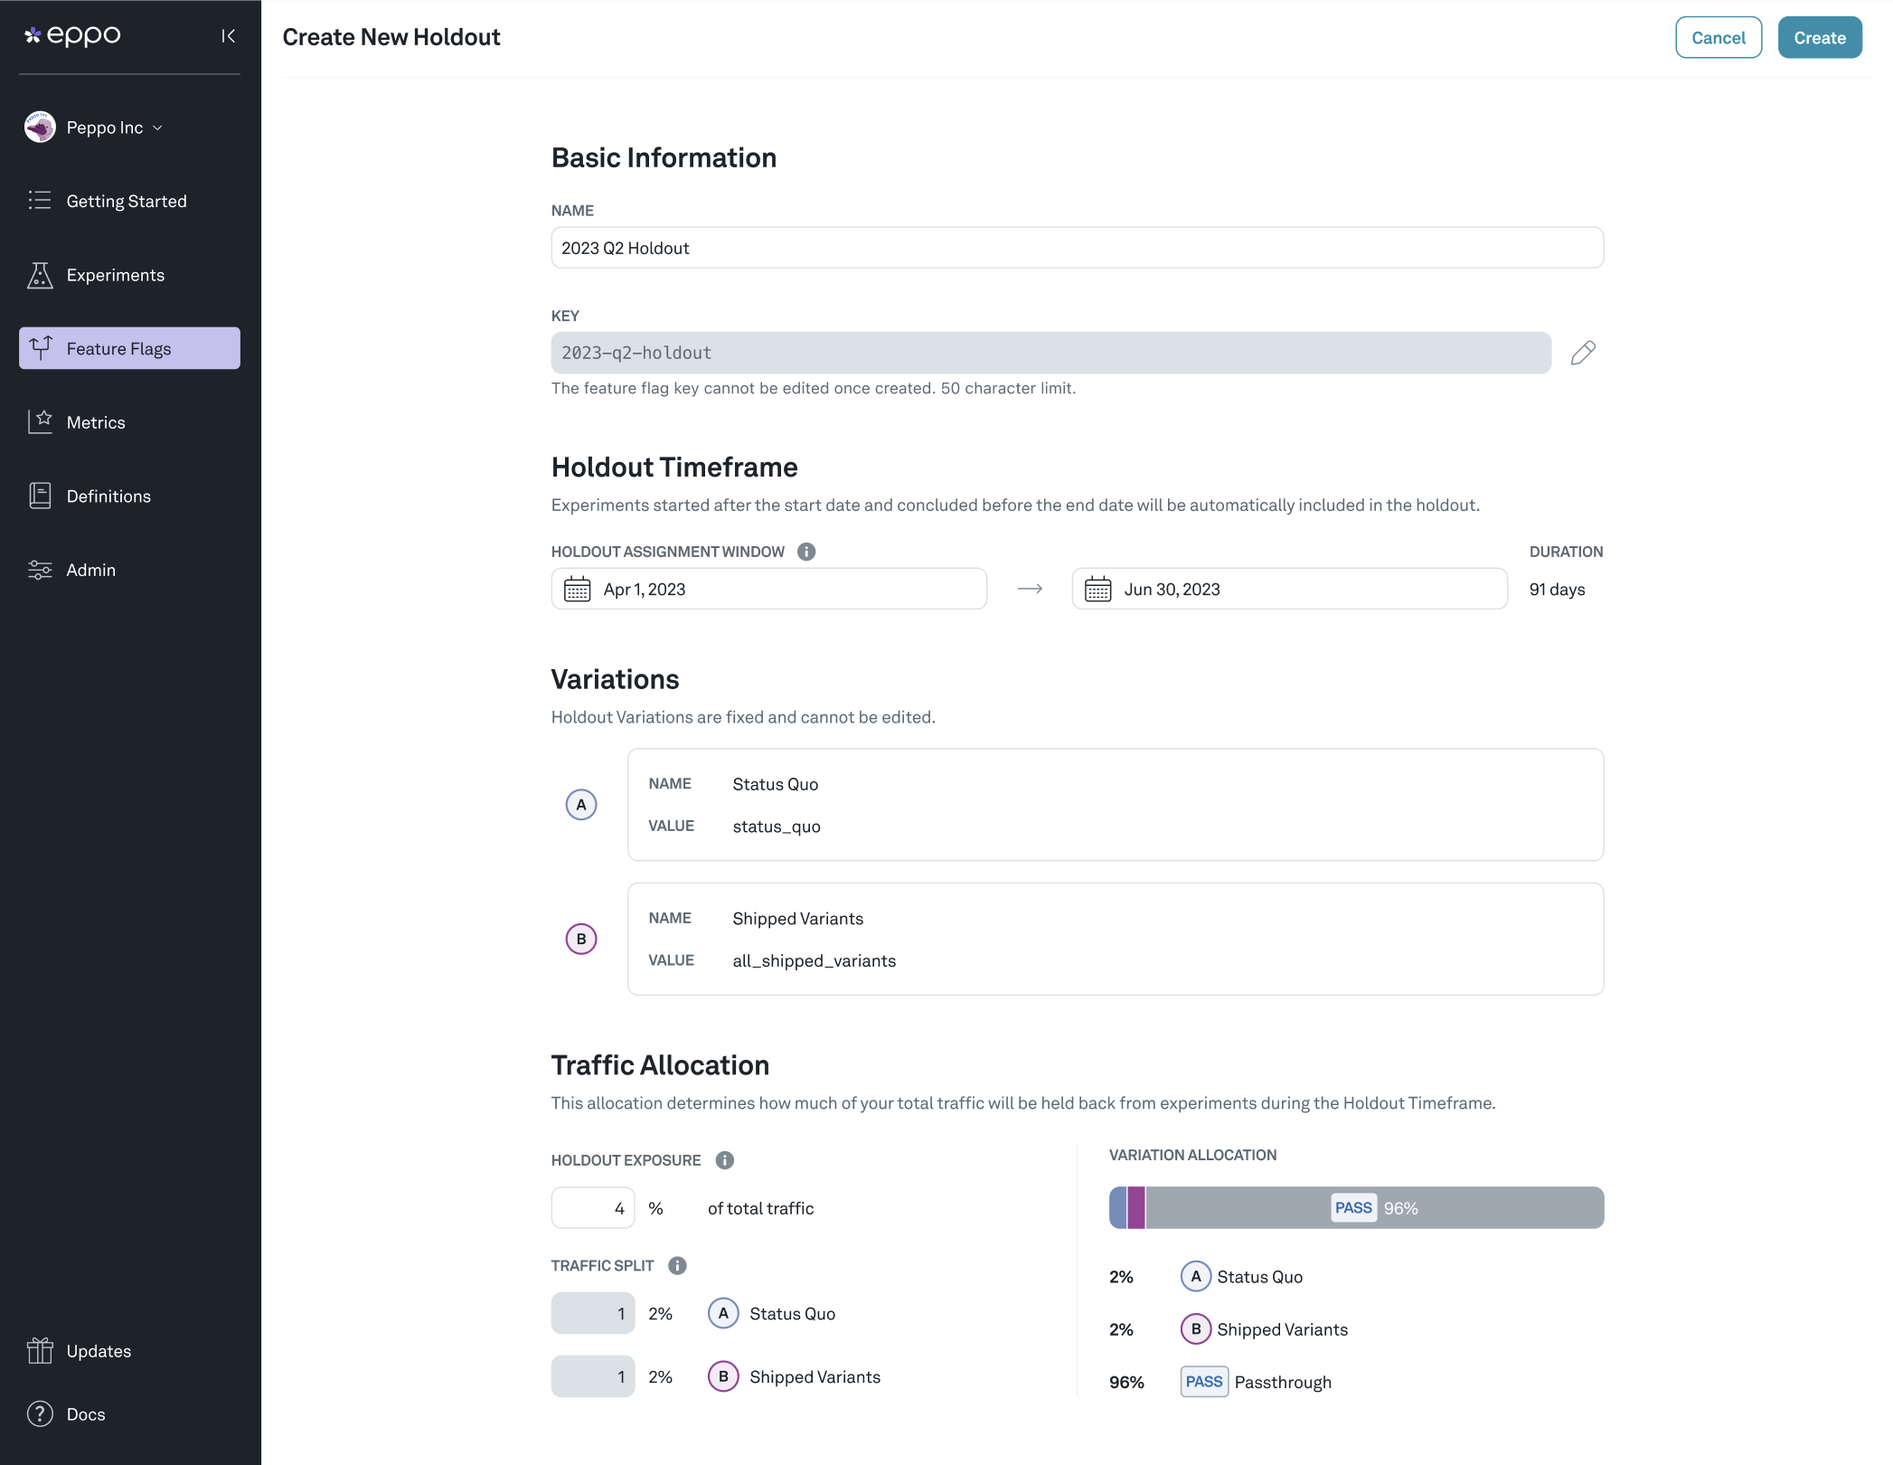
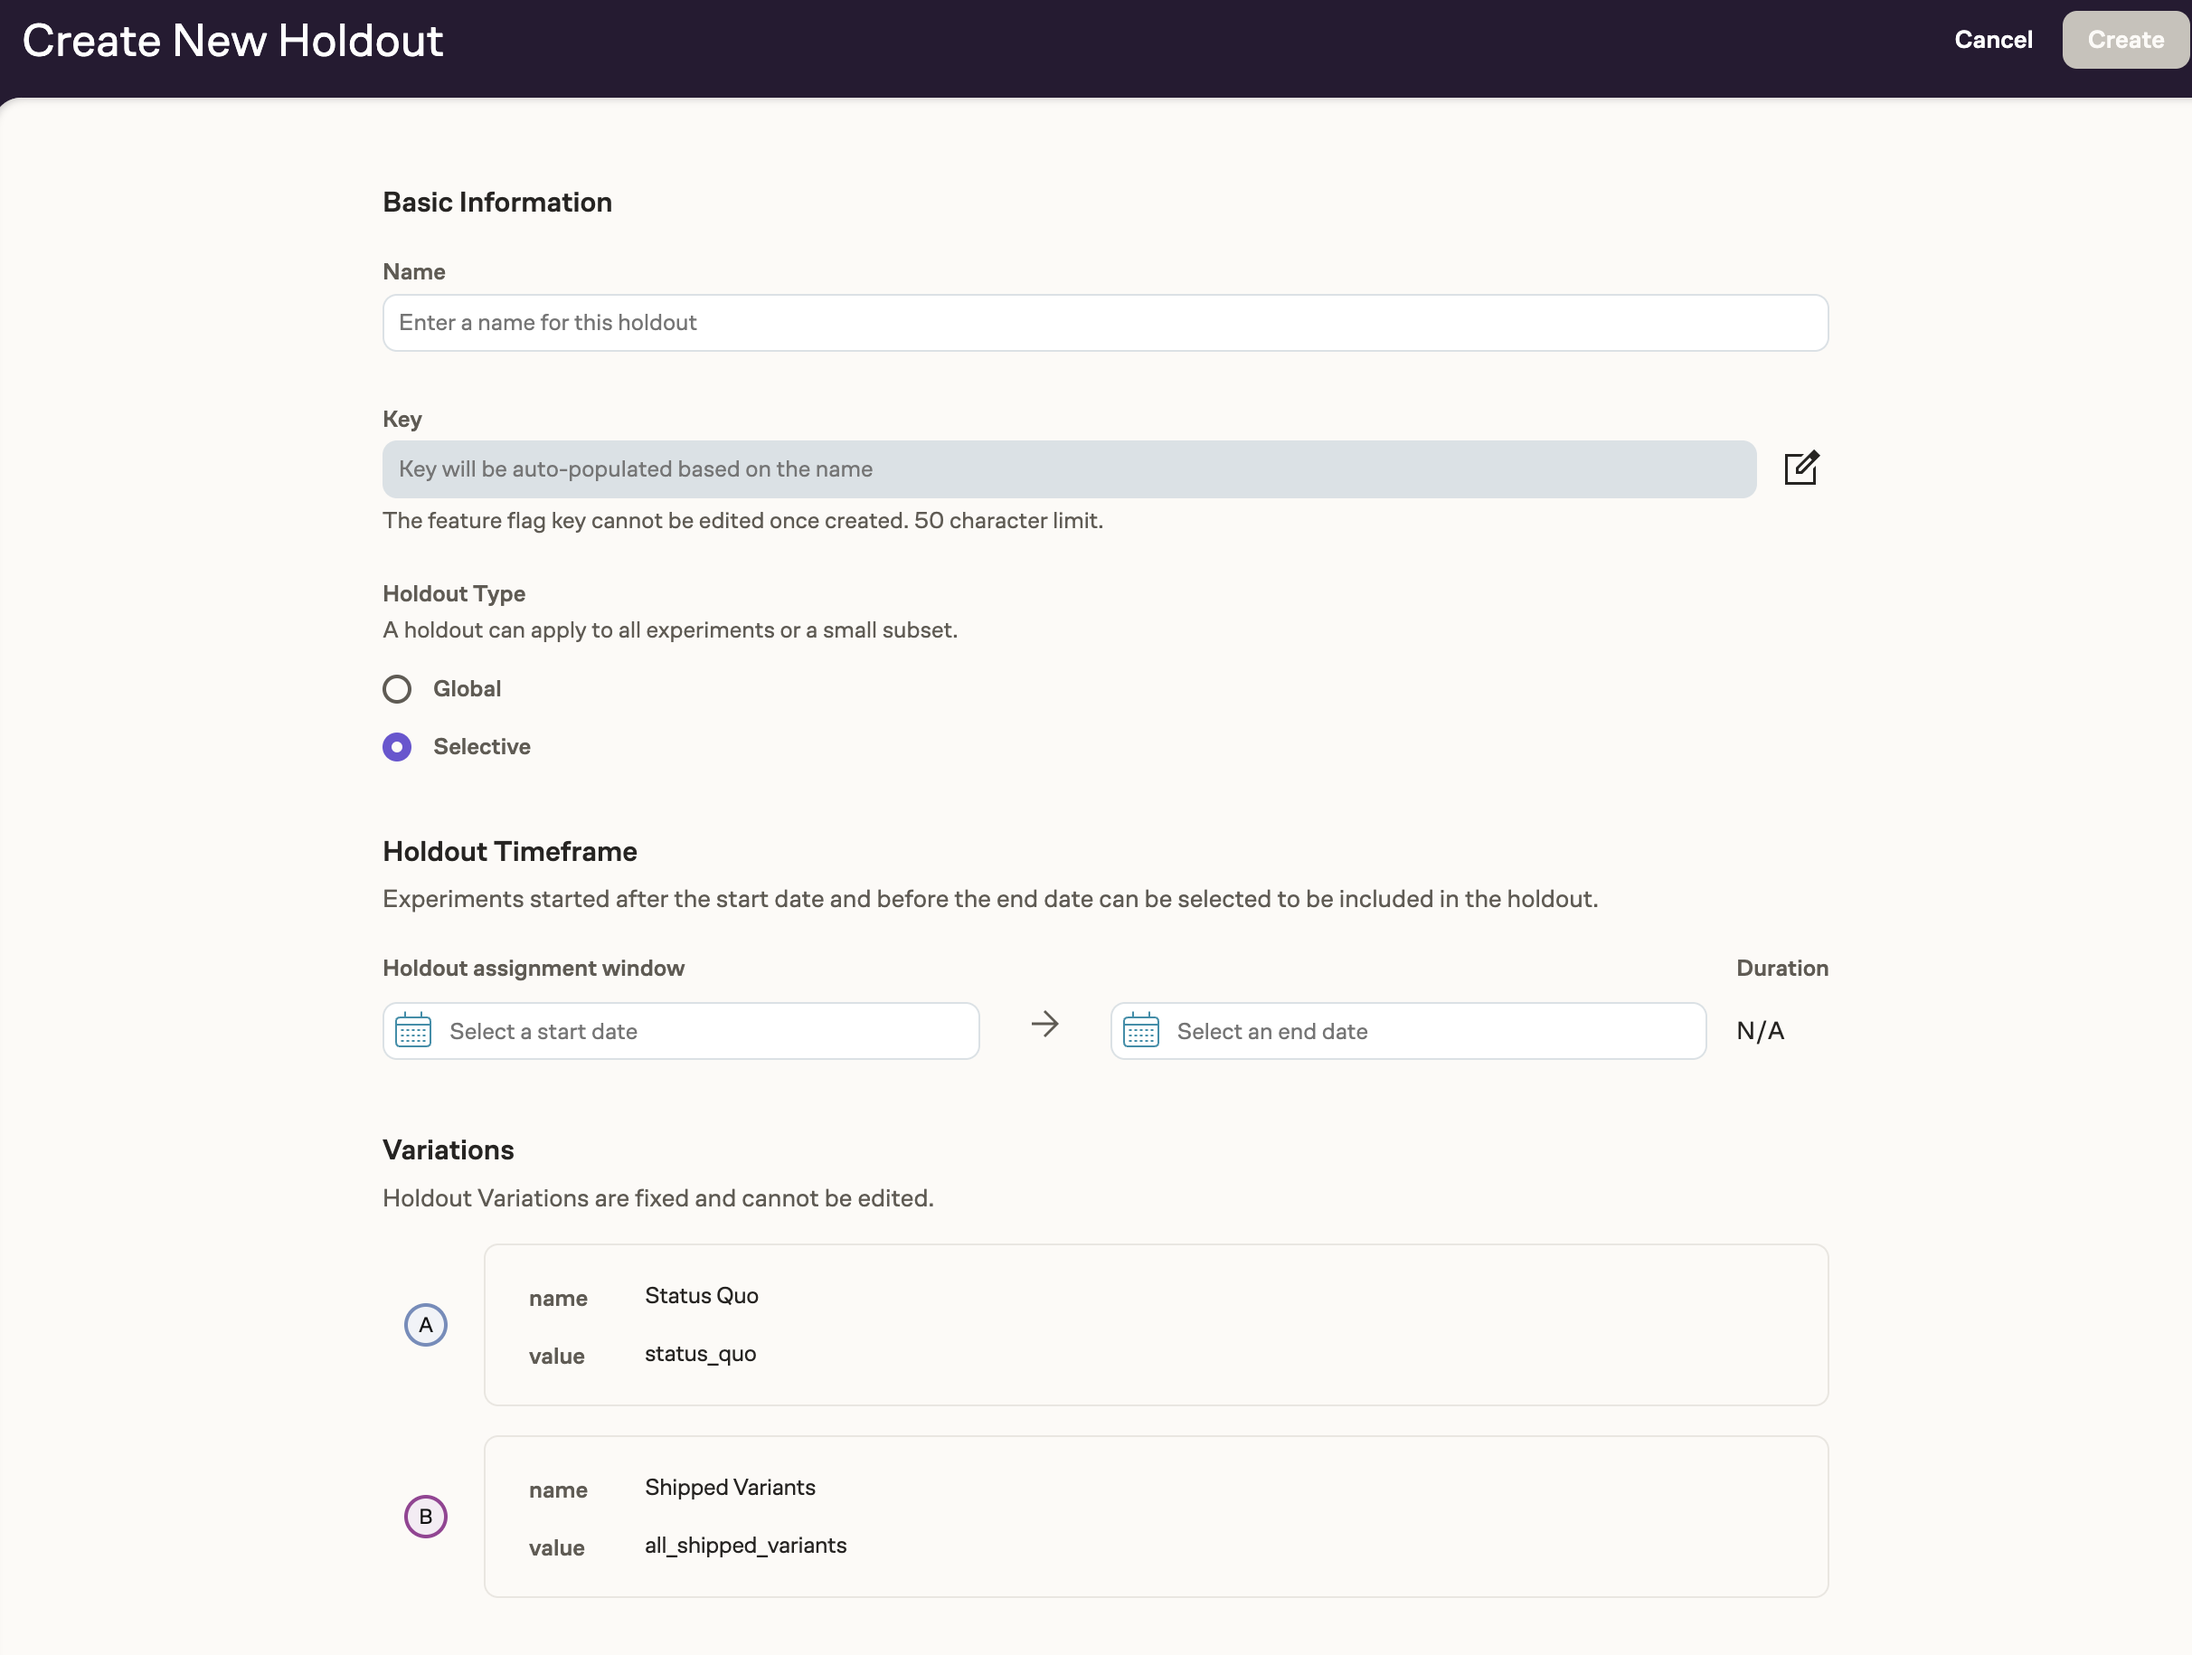
Add selective holdouts and break out sdk holdouts from analysis only (#652)
* Add selective holdouts and break out sdk holdouts from analysis only

* updated image and ordering

* Update docs/feature-flagging/concepts/holdout-config.md

* Update docs/feature-flagging/concepts/holdout-config.md

---------

diff --git a/docs/experiment-analysis/holdouts.md b/docs/experiment-analysis/holdouts.md
@@ -1,104 +1,8 @@
-# Holdouts
+# Holdout Analysis
 
-Eppo's holdouts allows you to validate the aggregate impact of Experimentation.
+Holdout Analysis allows you to understand the aggregate impact of experiments grouped in a Holdout. 
 
-This functionality offers the ability to set a holdout audience in feature flags that keeps an audience isolated from all active experiments, and measures metric changes for the holdout audience versus an audience that only experiences winning experiments.
-
-The feature can be used with Eppo's SDK for an end-to-end managed experiment or in an [**Analysis-Only mode**](#analysis-only-holdouts) where you use an external randomization library.
-
-## Using Eppo SDKs
-
-Begin by [configuring your Assignment Source](/data-management/definitions/assignment-sql) to annotate your holdout columns.
-
-### Journey of a holdout subject
-
-Define one or more holdout groups with a relevant key and the desired active date range. You can have multiple holdout 
-groups running at once (e.g., one for each team that runs experiments).
-
-The holdout is randomly split into two groups:
-* Status Quo: Subjects in this group will always see the default experience for any experiments that take place during the 
-holdout period (holdout variation key `status_quo`)
-* Winning Variants: Subjects in this group will see the winning variant of each experiment after it has been concluded and 
-rolled out (holdout variation key `all_shipped`)
-
-![Creating a Holdout](/img/experiments/holdouts/holdouts-create-object.png)
-
-### Assignment period
-
-1. Experiment assignments are added to flags
-2. When subjects are assigned to eligible experiments (more details below) with an active holdout, they may be part of 
-a holdout group. Held out subjects will have the default experience and the SDK will return the default variation.
-
-#### Experiment eligibility
-
-* New experiment assignments that start and end within the holdout window will have the holdout applied
-  * Any experiment assignment that was created before the holdout was created will not have a holdout applied, regardless 
-of dates for holdout assignment
-  * Experiment assignments that start after the holdout window will not have the holdout applied
-* Experiments assignments that start during the holdout window but do not end in that time, will continue to have the 
-holdout applied until the experiment ends
-  * To include these experiments in the holdout _analysis_, you can extend the analysis end date beyond the holdout window end 
-date
-
-#### Concluding experiments
-
-Once an experiment is complete and a winning variation is selected, all non-holdout users (variations and control) will receive it.
-Held out users will either be assigned the status quo variation or the winning variation depending on which split of the
-holdout they are a part of.
-
-### Holdout analysis period
-
-You can analyze the holdout by creating a holdout analysis.
-
-![Creating a Holdout Analysis](/img/experiments/holdouts/holdouts-create-experiment.png)
-
-* Any experiments with rolled out variations during the holdout will be included
-* Experiments that are in progress will be added to the analysis automatically when winning variations are rolled out
-* The analysis will evaluate the impact to the selected metrics on the held out subjects who received the winning
-variations compared to those who received the status quo variations
-
-### SDK behavior
-
-Application developers do not need to make any changes to the SDK usage other than ensuring holdout information passed
-to the assignment logger is properly sent to the warehouse.
-
-![Data Flow](/img/experiments/holdouts/holdouts-data-flow.png)
-
-### Changes to assignment logging
-
-Subjects who are in hold out groups will always be assigned the status quo variation for any qualifying experiments that
-are in progress. Assignment logging will use a holdout-specific assignment (allocation) and experiment keys so that it
-doesn't interfere with the experiment analysis for subjects not being held out. These keys--passed as the `allocation` 
-and `experiment` properties of the assignment event, are composite keys that end with the key of the applied holdout
-(e.g., `homepage-experiment-holdout-2025Q1`)
-
-Once the experiment concludes, if a variation is rolled out, then half of held out subjects--those bucketed into the winning 
-variation split of the holdout group--will start being assigned the rolled out variation.
-
-To facilitate analysis of the holdout group across _all_ qualifying rollouts, there is additional information that is 
-included in the assignment event that is passed to the assignment logger:
-* The holdout key - unique identifier for the holdout group
-* The holdout variation - whether the subject is in the status quo (`status_quo`) or winning variation (`all_shipped`) 
-split of the holdout
-
-For example, in Python:
-```python
-class MyAssignmentLogger(AssignmentLogger):
-    def log_assignment(self, event):
-        print("Send to warehouse", { 
-            'timestamp': event['timestamp'],
-            'experimentKey': event['experiment'],
-            'holdoutKey':  event['holdoutKey'], 
-            'holdoutVariation': event['holdoutVariation'],
-            # other fields from event as desired
-        })
-```
-
-## Analysis-only holdouts
-
-If your holdouts are deployed by an external randomization library, and you are not using Eppo's feature flags, please refer to this section.
-
-Eppo enables you to bring your own holdouts and provides a full-featured analysis of that holdout on key metrics.
+Eppo enables you to bring your own holdouts and provides a full-featured analysis of that holdout on key metrics. Holdouts can also be used with Eppo's SDK for an end-to-end managed experiments. Please refer to [the Holdouts page for this functionality](/feature-flagging/concepts/holdout-config).
 
 ### Assignment setup
 

diff --git a/docs/feature-flagging/concepts/holdout-config.md b/docs/feature-flagging/concepts/holdout-config.md
@@ -1,0 +1,102 @@
+# Holdouts
+
+Eppo's holdouts allows you to validate the aggregate impact of Experimentation.
+
+This functionality offers the ability to set a holdout audience in feature flags that keeps an audience isolated from all active experiments, and measures metric changes for the holdout audience versus an audience that only experiences winning experiments.
+
+The feature can be used with Eppo's SDK for an end-to-end managed experiment or in an [**Analysis-Only mode**](/experiment-analysis/holdouts) where you use an external randomization library.
+
+Eppo offers both Global and Selective Holdouts for Holdouts created using the Eppo SDK.
+
+## Using Eppo SDKs
+
+Begin by [configuring your Assignment Source](/data-management/definitions/assignment-sql/#optional-columns-for-advanced-use-cases) to annotate your holdout columns.
+
+### Journey of a holdout subject
+
+Define one or more holdout groups with a relevant key and the desired active date range. You can have multiple holdout 
+groups running at once (e.g., one for each team that runs experiments).
+
+The holdout is randomly split into two groups:
+* Status Quo: Subjects in this group will always see the default experience for any experiments that take place during the 
+holdout period (holdout variation key `status_quo`)
+* Winning Variants: Subjects in this group will see the winning variant of each experiment after it has been concluded and 
+rolled out (holdout variation key `all_shipped_variants`)
+
+![Creating a Holdout](/img/experiments/holdouts/holdouts-create-object.png)
+
+### Holdout types
+Eppo offers both Global and Selective Holdouts.
+
+* Global Holdouts - all experiments that fall within the holdout assignment window are automatically included in the Holdout
+* Selective Holdouts - experiments that fall within the holdout assignment window need to be selected to be part of the holdout when the experiment is created
+
+### Assignment period
+
+1. Experiment assignments are added to flags
+2. When subjects are assigned to eligible experiments (more details below) with an active holdout, they may be part of 
+a holdout group. Held out subjects will have the default experience and the SDK will return the default variation.
+
+#### Experiment eligibility
+
+* New experiment assignments that start and end within the holdout window are eligible to have the holdout applied
+  * Any experiment assignment that was created before the holdout was created will not have a holdout applied, regardless of dates for holdout assignment
+  * Experiment assignments that start after the holdout window will not have the holdout applied
+* Experiments assignments that start during the holdout window but do not end in that time, will continue to have the 
+holdout applied until the experiment ends
+  * To include these experiments in the holdout _analysis_, you can extend the analysis end date beyond the holdout window end date
+
+#### Concluding experiments
+
+Once an experiment is complete and a winning variation is selected, all non-holdout users (variations and control) will receive it.
+Held out users will either be assigned the status quo variation or the winning variation depending on which split of the
+holdout they are a part of.
+
+### Holdout analysis period
+
+You can analyze the holdout by creating a holdout analysis.
+
+![Creating a Holdout Analysis](/img/experiments/holdouts/holdouts-create-experiment.png)
+
+* Any experiments with rolled out variations during the holdout will be included
+* Experiments that are in progress will be added to the analysis automatically when winning variations are rolled out
+* The analysis will evaluate the impact to the selected metrics on the held out subjects who received the winning
+variations compared to those who received the status quo variations
+
+### SDK behavior
+
+Application developers do not need to make any changes to the SDK usage other than ensuring holdout information passed
+to the assignment logger is properly sent to the warehouse.
+
+![Data Flow](/img/experiments/holdouts/holdouts-data-flow.png)
+
+### Changes to assignment logging
+
+Subjects who are in hold out groups will always be assigned the status quo variation for any qualifying experiments that
+are in progress. Assignment logging will use a holdout-specific assignment (allocation) and experiment keys so that it
+doesn't interfere with the experiment analysis for subjects not being held out. These keys--passed as the `allocation` 
+and `experiment` properties of the assignment event, are composite keys that end with the key of the applied holdout
+(e.g., `homepage-experiment-holdout-2025Q1`)
+
+Once the experiment concludes, if a variation is rolled out, then half of held out subjects--those bucketed into the winning 
+variation split of the holdout group--will start being assigned the rolled out variation.
+
+To facilitate analysis of the holdout group across _all_ qualifying rollouts, there is additional information that is 
+included in the assignment event that is passed to the assignment logger:
+* The holdout key - unique identifier for the holdout group
+* The holdout variation - whether the subject is in the status quo (`status_quo`) or winning variation (`all_shipped`) 
+split of the holdout
+
+For example, in Python:
+```python
+class MyAssignmentLogger(AssignmentLogger):
+    def log_assignment(self, event):
+        print("Send to warehouse", { 
+            'timestamp': event['timestamp'],
+            'experimentKey': event['experiment'],
+            'holdoutKey':  event['holdoutKey'], 
+            'holdoutVariation': event['holdoutVariation'],
+            # other fields from event as desired
+        })
+```
+
